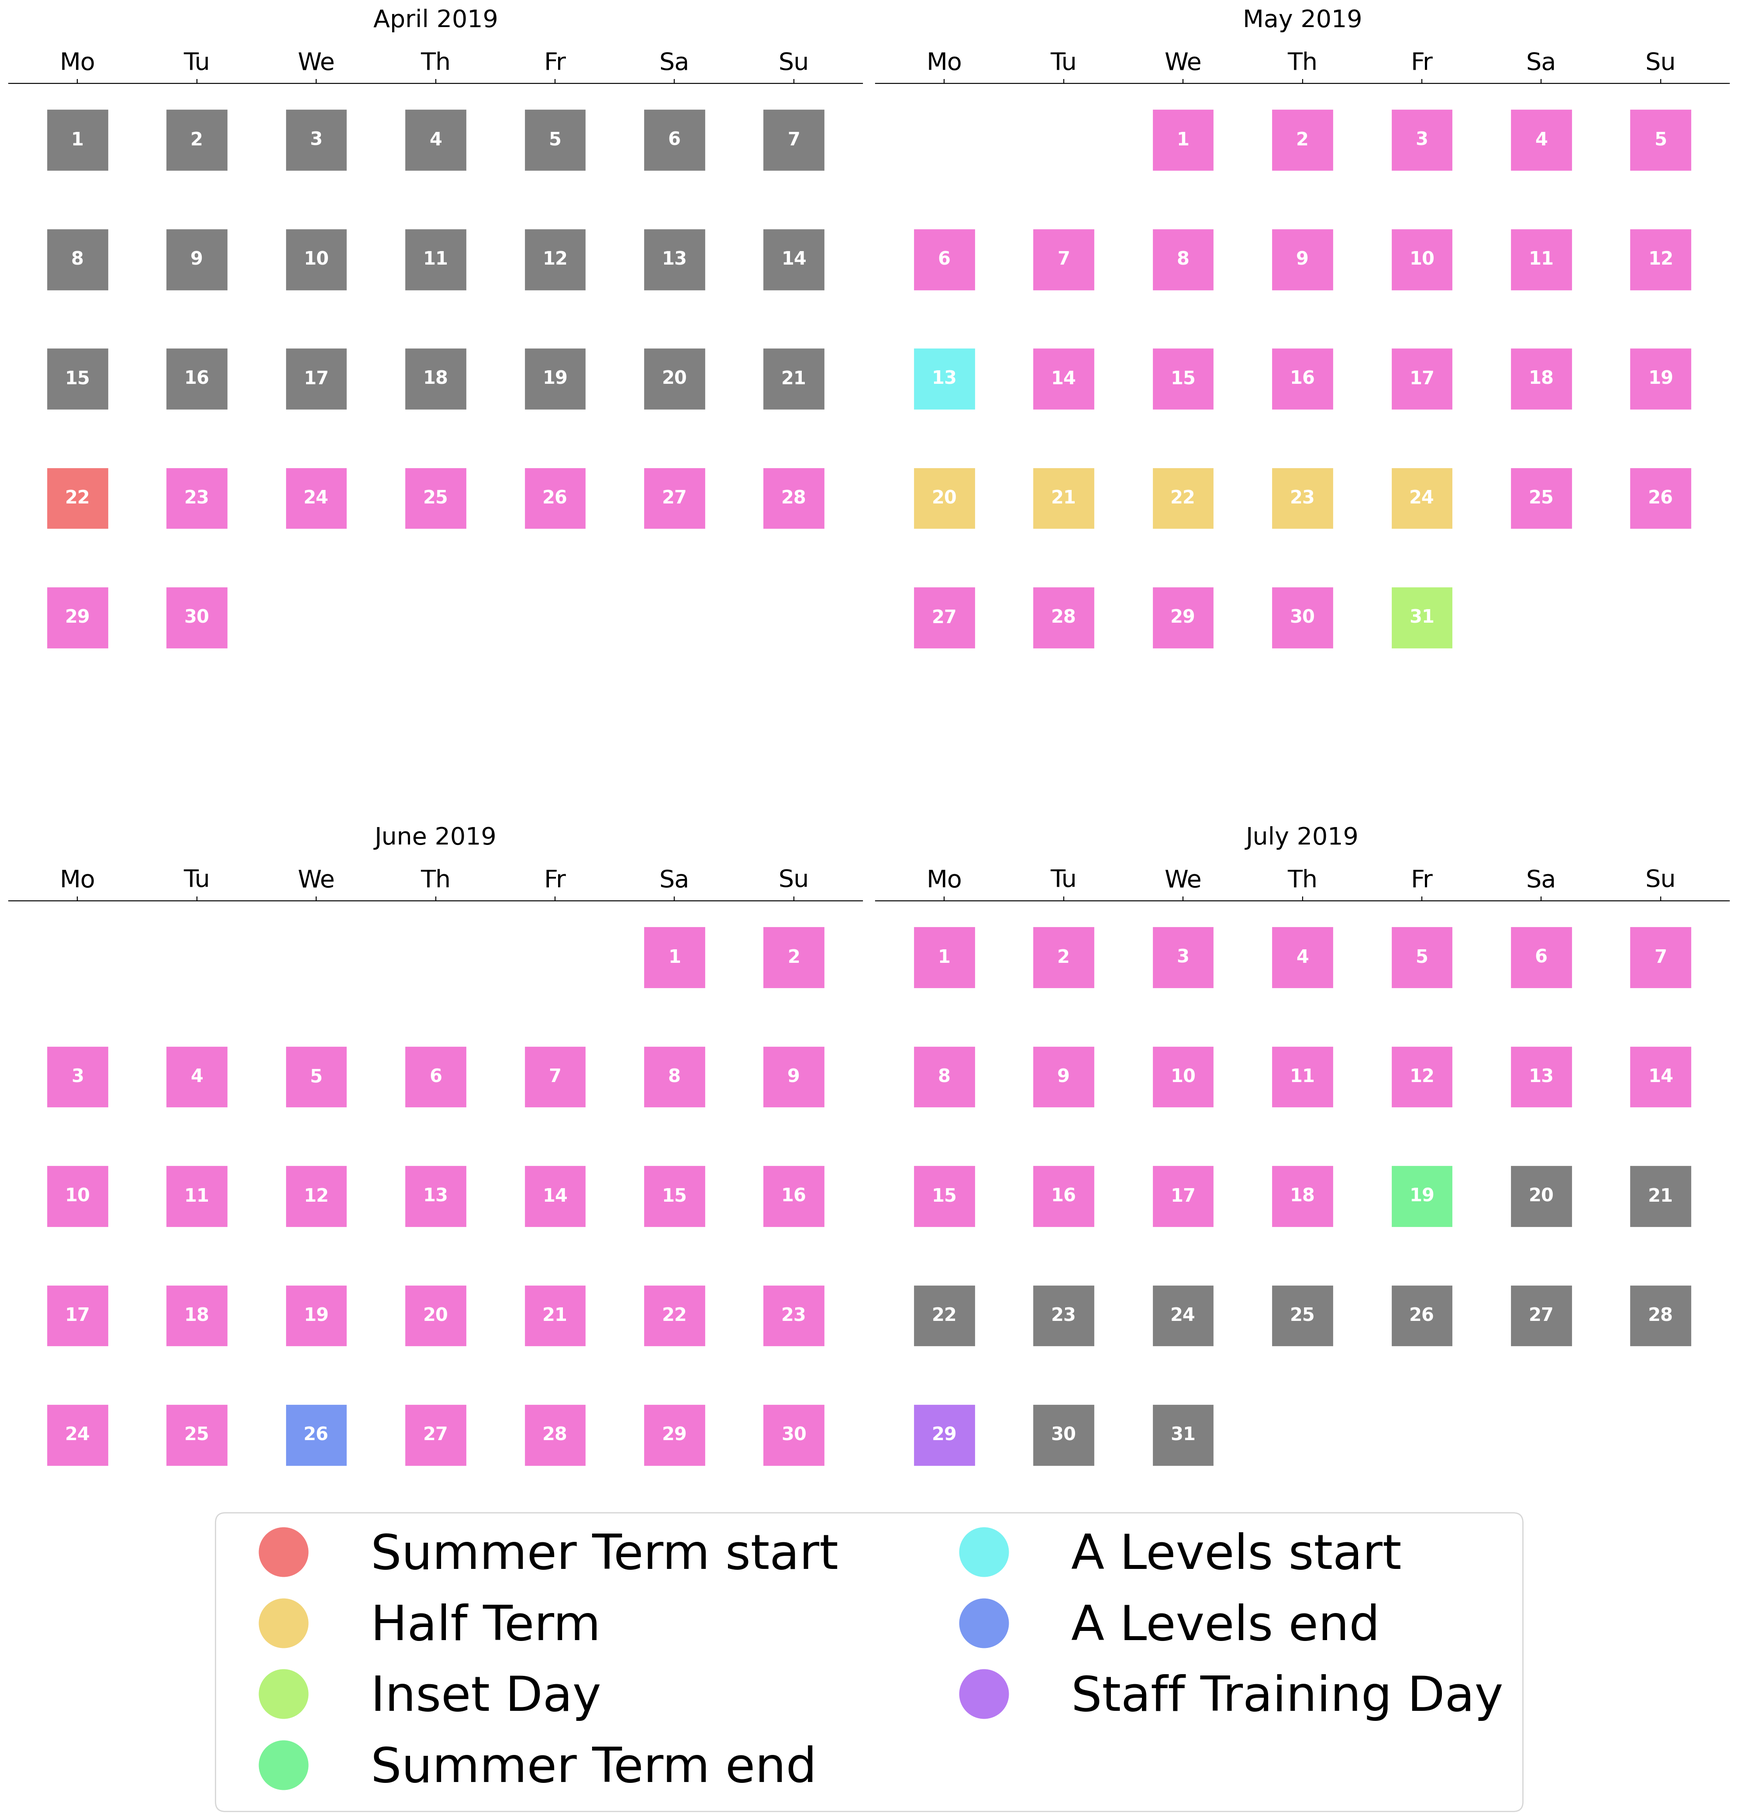
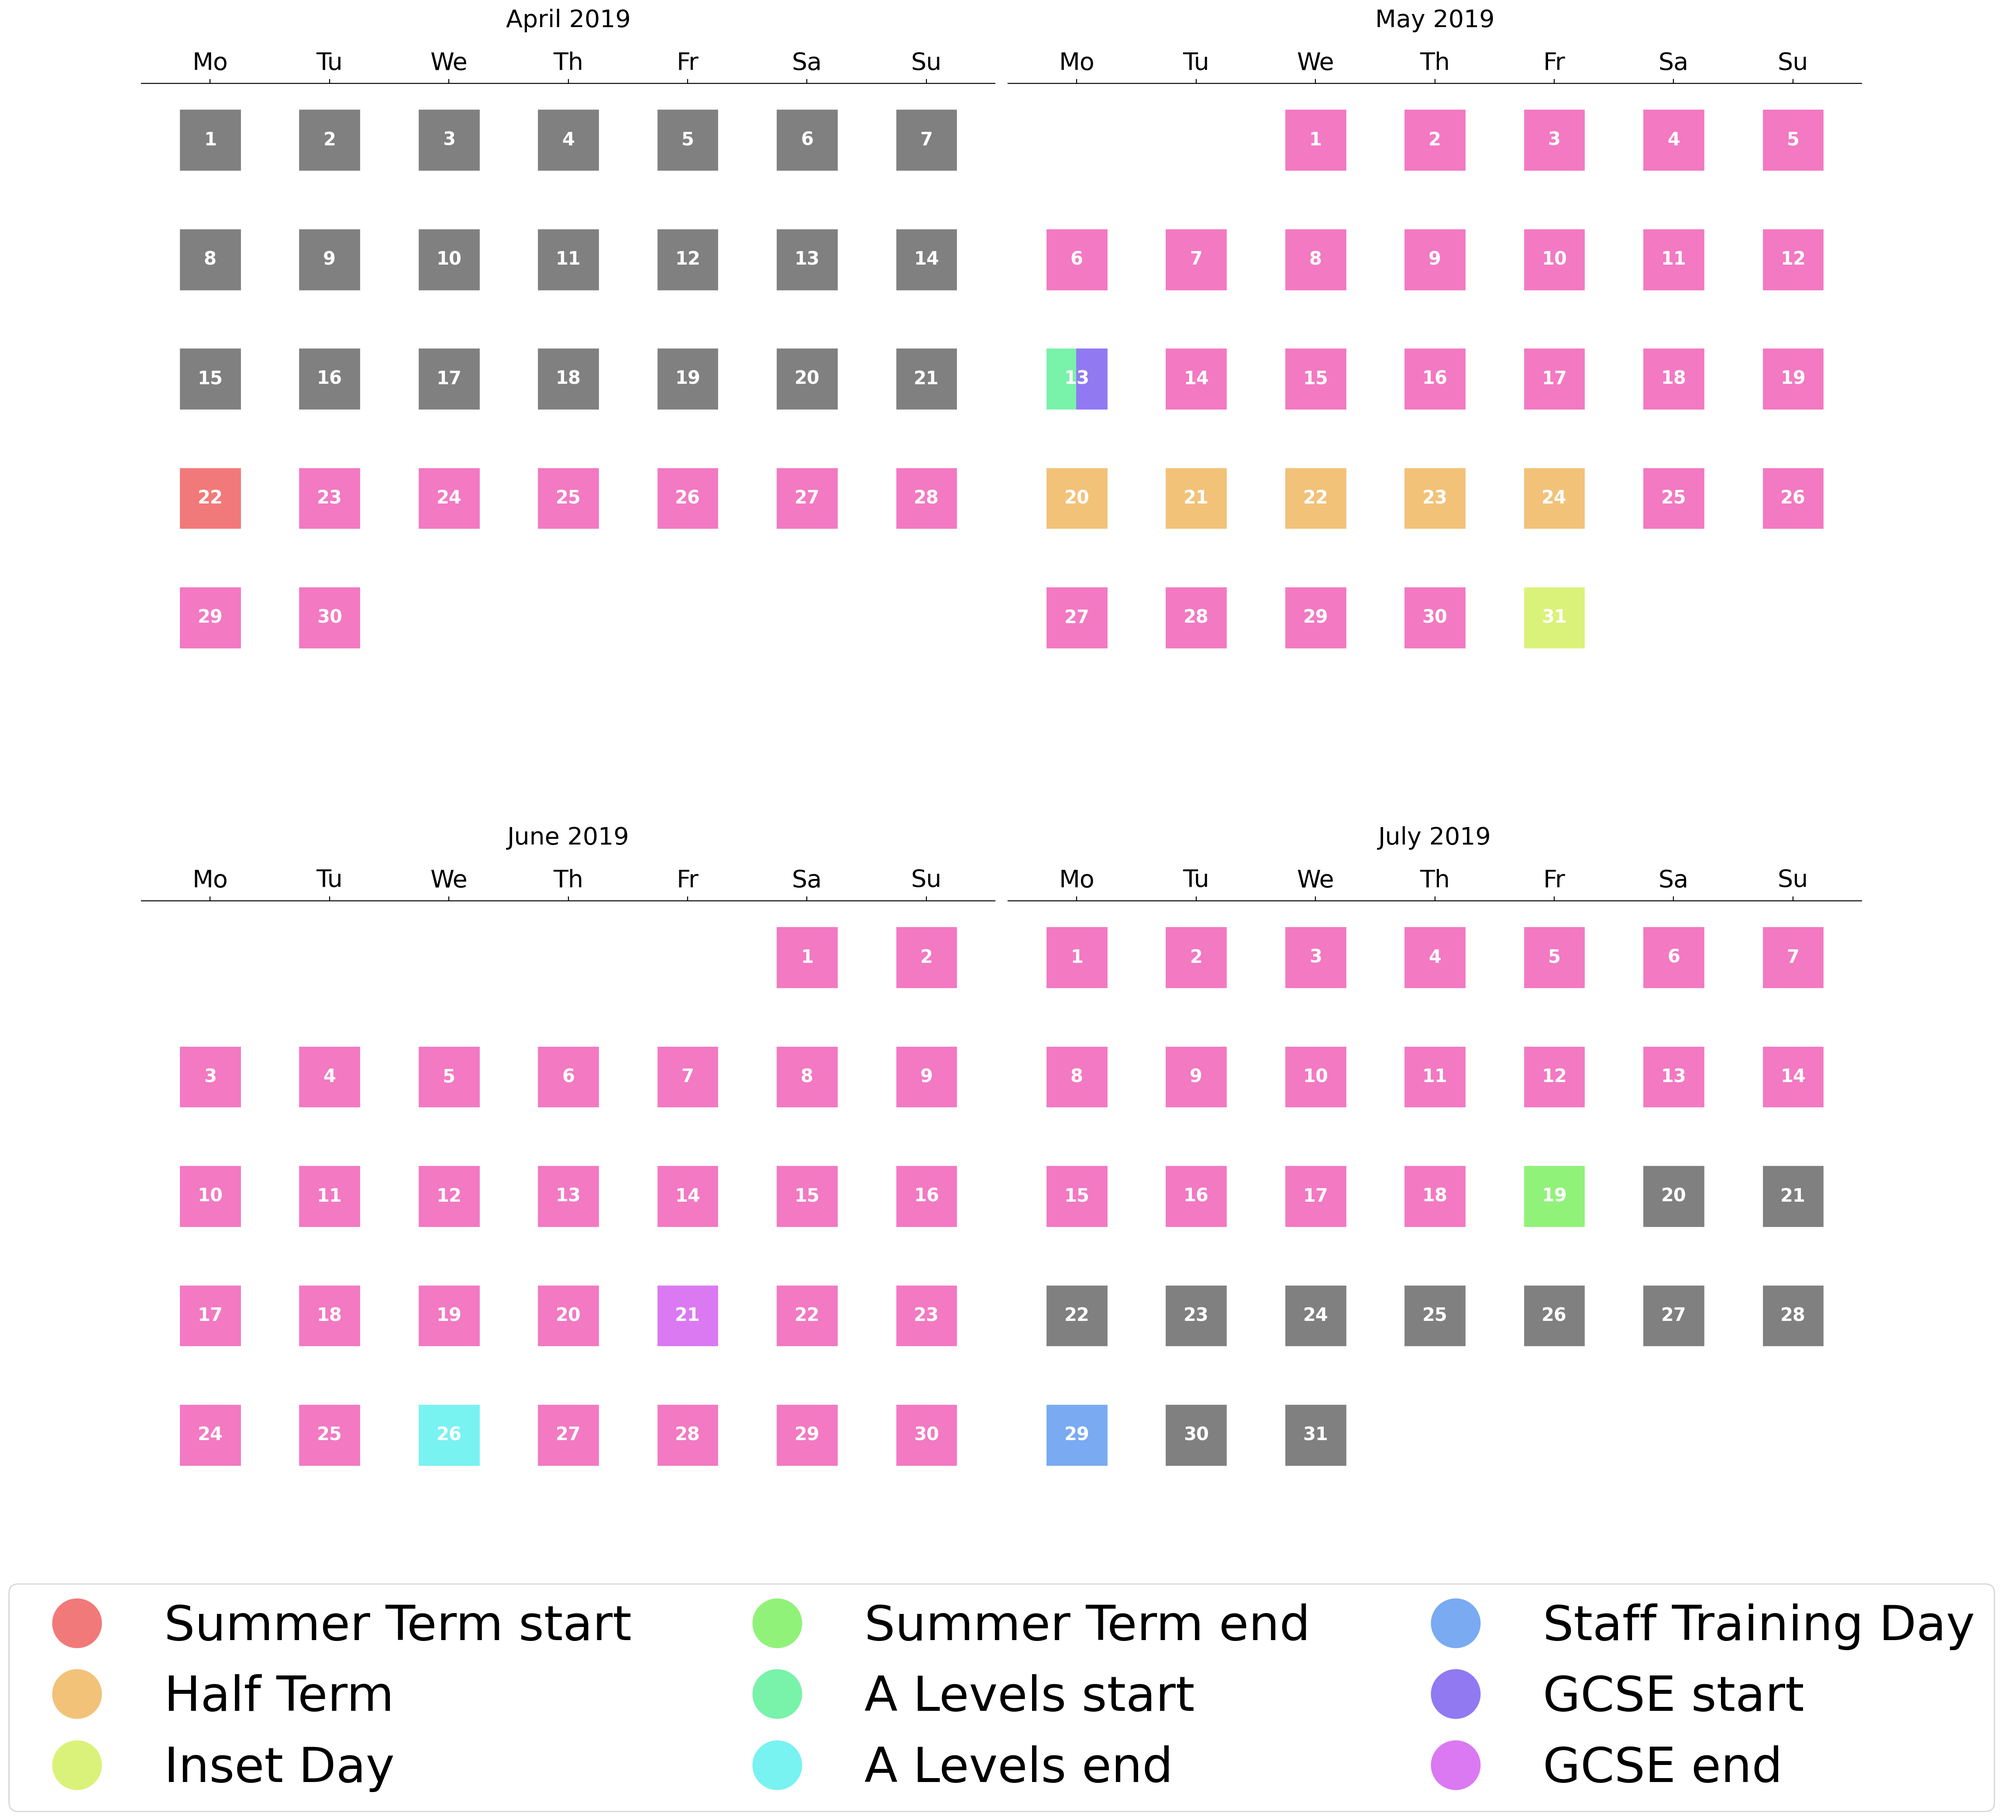
Update docs with multiple events per date example

diff --git a/docs/source/pages/examples.rst b/docs/source/pages/examples.rst
@@ -6,6 +6,7 @@ Examples
 
     import pandas as pd
     from cccalendar import draw_colour_calendar
+
     s = pd.Series({
         '2019-04-22': 'Summer Term start',
         '2019-05-20': 'Half Term',
@@ -19,10 +20,17 @@ Examples
         '2019-06-26': 'A Levels end',
         '2019-07-29': 'Staff Training Day'
     })
-    fig, axs = draw_colour_calendar(s,
-                                    months_per_row=2,
-                                    min_date='2019-04-22',
-                                    max_date='2019-07-19')
+    s2 = pd.Series({
+        '2019-05-13': 'GCSE start',
+        '2019-06-21': 'GCSE end',
+    })
+    s = s.append(s2)
+
+    draw_colour_calendar(s,
+                         months_per_row=2,
+                         min_date='2019-04-22',
+                         max_date='2019-07-19')
+
 
 .. image:: /_static/school_term.png
   :width: 800

diff --git a/docs/source/pages/functionality.rst b/docs/source/pages/functionality.rst
@@ -18,4 +18,6 @@ is no guarantee the newly generated colours will not be similar to any colours e
 There is one other public method, ``draw_month_calendar``, detailed in :ref:`reference<Reference>`
 but not mentioned elsewhere in the documentation. This can be used to draw a calendar for a specific month.
 It does not include any of the helper functionality when using ``draw_colour_calendar`` directly so you must provide a
-Series with a supported colour value for every date in the month, making its usage much more explicit
+Series with a supported colour value for every date in the month, making its usage much more explicit.
+
+If there are multiple events present for the same date (i.e a duplicated index), the date square will have a split colour.
